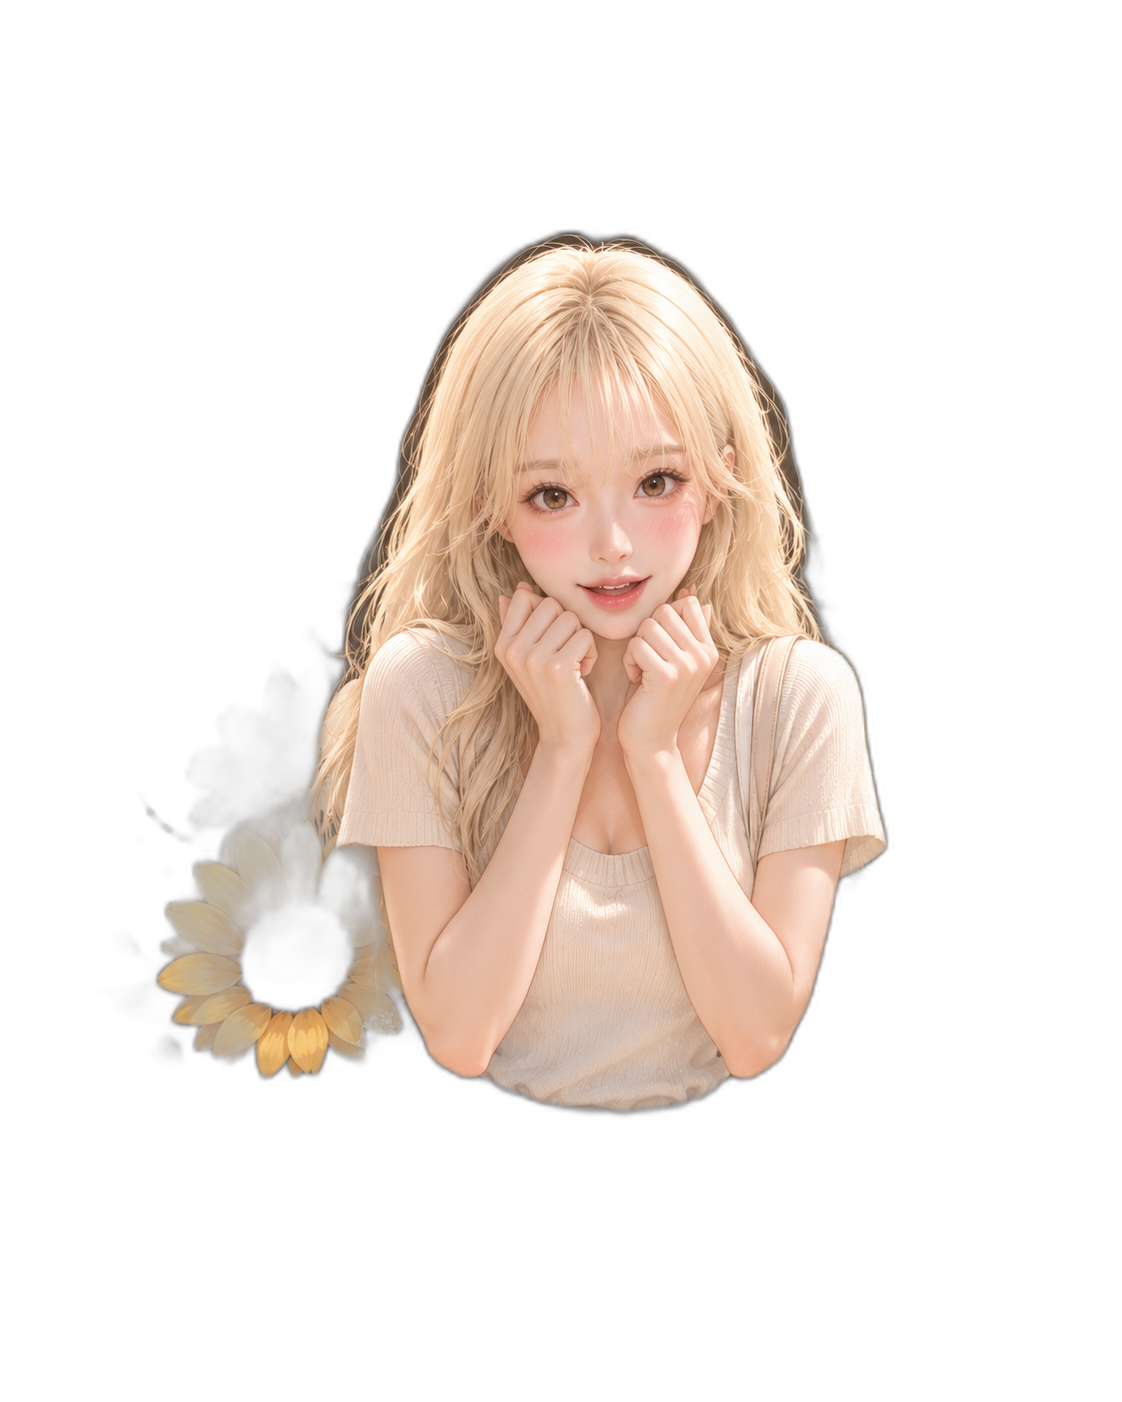
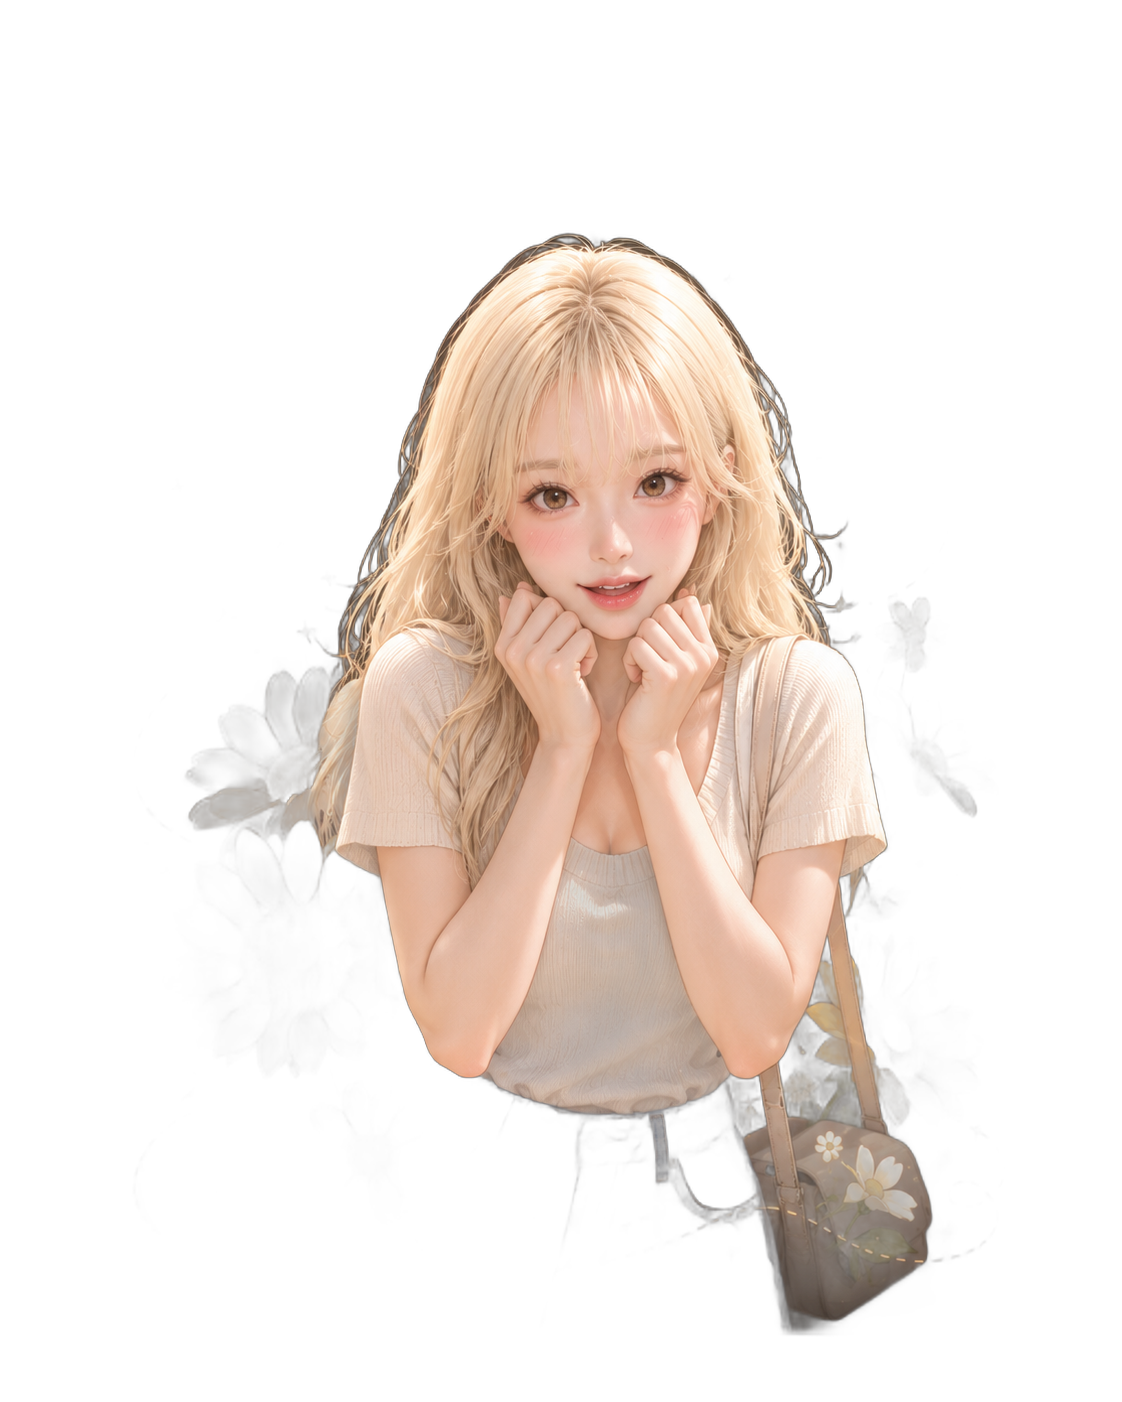
사다리: 해바라기 이미지 5종 추가, 캐릭터 누끼 재처리, 모달상단/보드 교체, 보드 커버 순수 블러로 변경

diff --git a/css/ladder.css b/css/ladder.css
@@ -401,10 +401,10 @@ body{ background: #b8d8f0; }
 }
 .modal-vine-deco {
   position: absolute;
-  top: -22px; left: 50%; transform: translateX(-50%);
-  width: min(520px, 92%); height: auto;
+  top: -60px; left: 50%; transform: translateX(-50%);
+  width: min(220px, 38%); height: auto;
   pointer-events: none; z-index: 10;
-  filter: drop-shadow(0 4px 14px rgba(100,65,0,.22));
+  filter: drop-shadow(0 4px 18px rgba(100,65,0,.28));
 }
 @media(max-width:600px) {
   .tier-modal-box {
@@ -568,14 +568,28 @@ body{ background: #b8d8f0; }
 .nl-board-area canvas { display: block; width: 100%; height: auto; }
 .nl-board-cover {
   position: absolute; inset: 0;
-  backdrop-filter: blur(14px);
-  -webkit-backdrop-filter: blur(14px);
-  background:
-    center/contain no-repeat url('../assets/ladder/ladder-board-blur-cover.png'),
-    linear-gradient(145deg, rgba(210,165,40,.72) 0%, rgba(160,105,15,.80) 100%);
+  backdrop-filter: blur(22px);
+  -webkit-backdrop-filter: blur(22px);
+  background: rgba(255,248,210,.08);
   border-radius: 8px;
   display: flex; align-items: flex-end; justify-content: center;
   padding-bottom: 16px; cursor: pointer;
+  z-index: 3;
+}
+/* 보드 위 캐릭터 & 해바라기 */
+.board-char-img {
+  position: absolute;
+  left: 50%; top: 0; transform: translateX(-50%);
+  height: 100%; width: auto; max-width: 38%;
+  pointer-events: none; z-index: 2;
+  filter: drop-shadow(0 4px 20px rgba(80,40,0,.25));
+}
+.board-sf-left {
+  position: absolute;
+  left: 4%; bottom: 0;
+  width: 18%; height: auto;
+  pointer-events: none; z-index: 2;
+  filter: drop-shadow(0 4px 14px rgba(100,65,0,.18));
 }
 .nl-board-cover-label {
   position: relative; z-index: 1;

diff --git a/ladder.html b/ladder.html
@@ -10,7 +10,7 @@
 <link rel="stylesheet" href="css/base.css?v=2">
 <link rel="stylesheet" href="css/components.css?v=3">
 <link rel="stylesheet" href="css/animations.css?v=2">
-<link rel="stylesheet" href="css/ladder.css?v=64">
+<link rel="stylesheet" href="css/ladder.css?v=65">
 </head>
 <body>
 
@@ -43,7 +43,7 @@
 <!-- ══ TIER MODAL ══ -->
 <div class="tier-modal-overlay" id="tier-modal" style="display:none;" onclick="handleModalBgClick(event)">
   <div class="tier-modal-box" id="tier-modal-box">
-    <img class="modal-vine-deco" src="assets/ladder/modal-vine-top.png" alt="" aria-hidden="true">
+    <img class="modal-vine-deco" src="assets/ladder/deco-sf-crescent.png" alt="" aria-hidden="true">
     <button class="tier-modal-close" onclick="closeTierModal()">✕</button>
     <div class="tier-modal-title" id="tm-title">1426</div>
     <div class="tier-modal-sub" id="tm-sub">상품 3개 선택 후 벌칙 2개 선택</div>
@@ -86,6 +86,8 @@
       <div class="nl-numbers-row" id="nl-numbers"></div>
       <div class="nl-board-area" id="nl-board-area" onclick="nlToggleBoardBlur()" style="cursor:pointer;">
         <canvas id="nl-canvas"></canvas>
+        <img class="board-sf-left" src="assets/ladder/deco-sf-ornate.png" alt="" aria-hidden="true">
+        <img class="board-char-img" src="assets/ladder/meyou-center-halfbody.png" alt="" aria-hidden="true">
         <div class="nl-board-cover" id="nl-board-cover">
           <div class="nl-board-cover-label">👆 클릭해서 사다리 보기</div>
         </div>